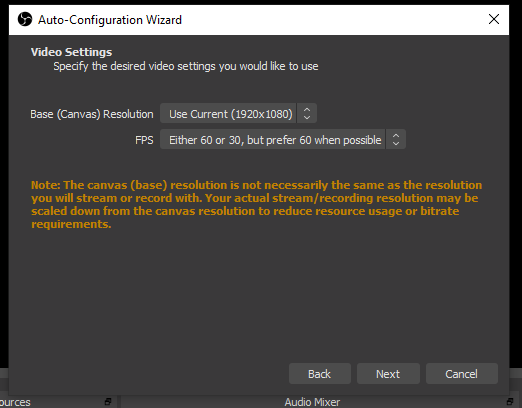
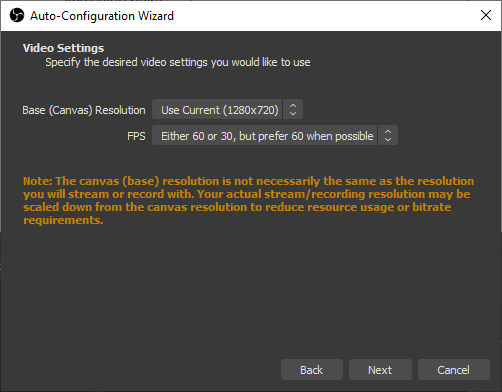
update

Changed region(s): [[0.0, 0.0, 1.0, 0.9184], [0.0, 0.8878, 0.9562, 1.0], [0.9562, 0.9796, 0.9861, 1.0]]

diff --git a/topic-01-obs/unit-0/book-a/6.06.md b/topic-01-obs/unit-0/book-a/6.06.md
@@ -29,3 +29,13 @@ Under the Control panel:
 We have a 'Start Recording' button. Press this now to start your classs. 
 
 You can bring the PowerPoint window to the foreground and proceed to talk through your slides.
+
+When finished, press 'Stop Recording':
+
+![](img/47.png)
+
+Once the recording is stopped, you will find it (dated) in the Videos folder on your PC:
+
+![](img/48.png)
+
+In the next step we will share this video on YouTube.

diff --git a/topic-01-obs/unit-0/book-a/02.02.md b/topic-01-obs/unit-0/book-a/02.02.md
@@ -36,6 +36,8 @@ Select 'Optimise just for Recording'
 
 ![](img/08.png)
 
+In the above we have selected 1280x720.
+
 You may see these settings:
 
 ![](img/09.png)
